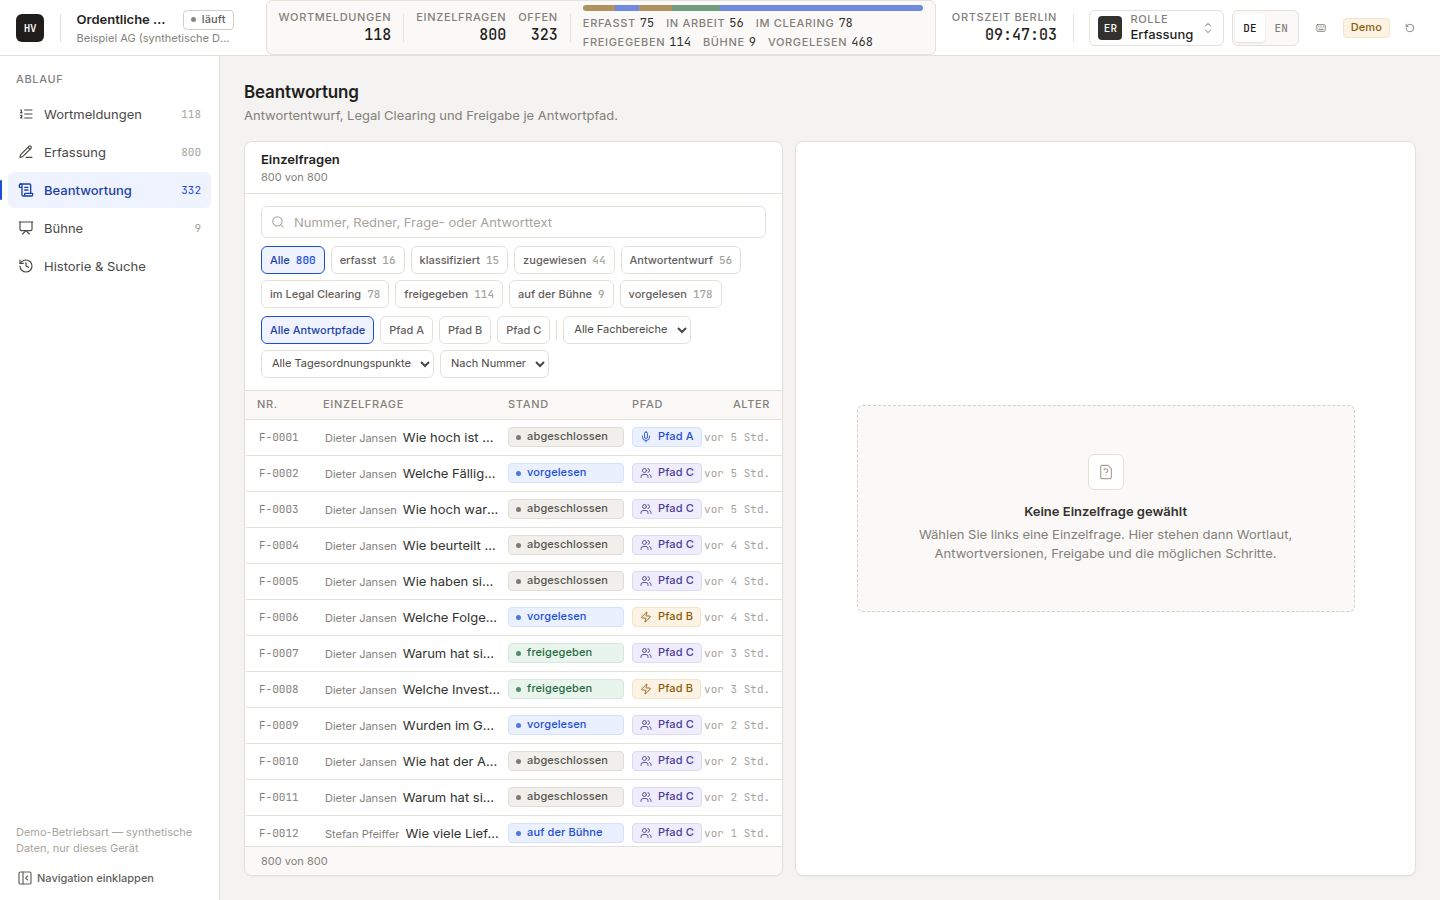
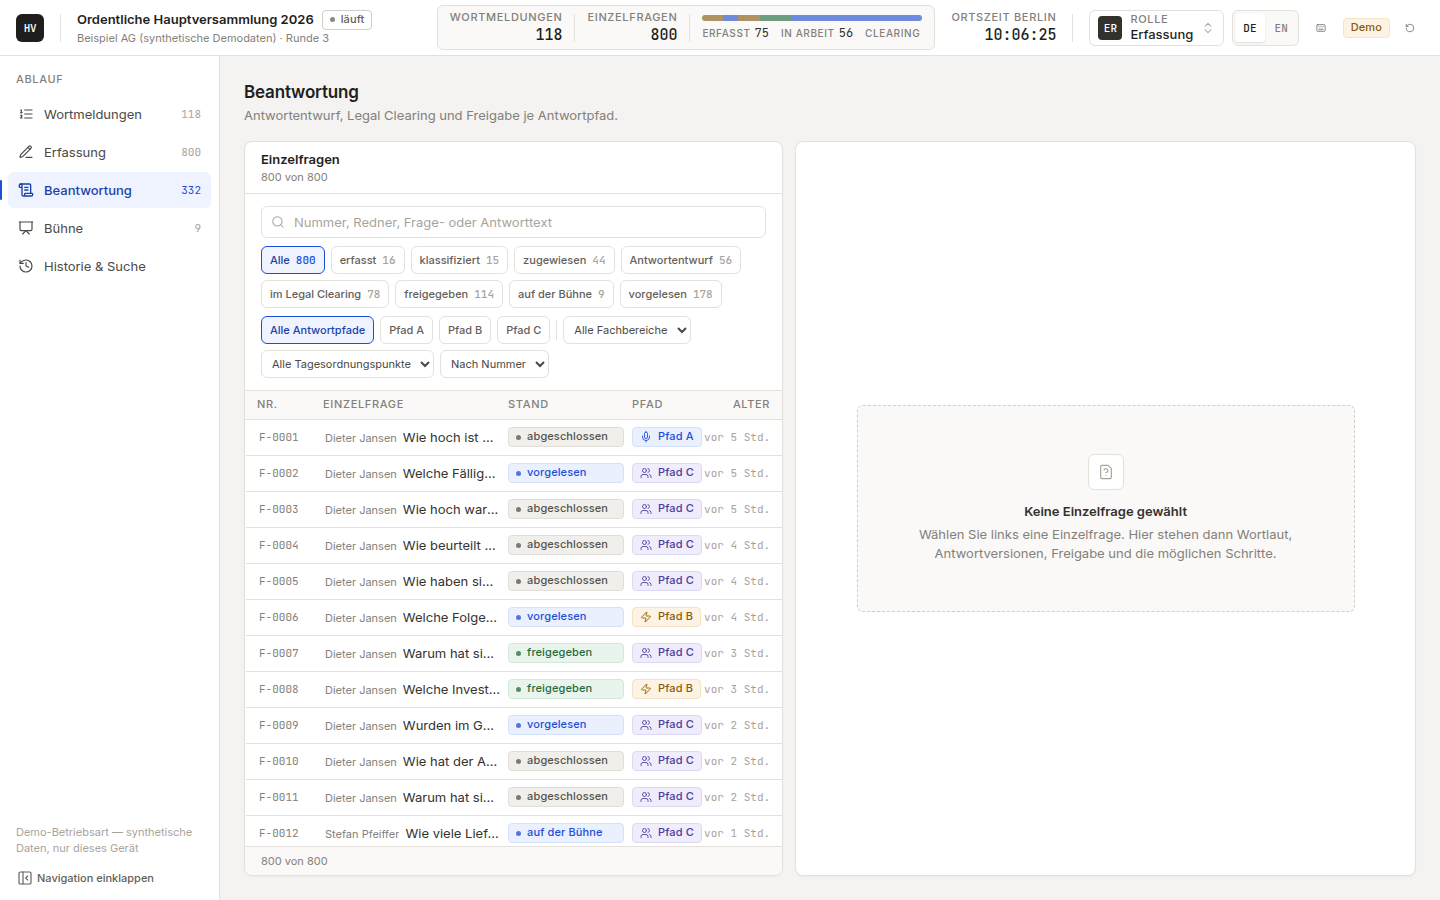
wip: Nacharbeit Kopfzeile Scheibe 005 (in Arbeit) [skip netlify]
Zwischenstand waehrend der laufenden Nacharbeit; Netlify-Build uebersprungen.

Claude-Session: https://claude.ai/code/session_01W7mvFk27CiWXAp4WWTsRaj

Changed region(s): [[0.0625, 0.0, 0.75, 0.0622], [0.4062, 0.3422, 0.4688, 0.3733]]

diff --git a/apps/web/src/app/HeaderStrip.tsx b/apps/web/src/app/HeaderStrip.tsx
@@ -1,7 +1,9 @@
 /**
- * The header's live read on the backlog: how many Wortmeldungen and Einzelfragen exist, how many are
- * still open, and — as one glance-able bar — where the open ones sit in the workflow. Replaces the
- * four separate counter cells of slice 001 (docs/slices/005-designsystem-erweiterung.md point 8).
+ * The header's live read on the backlog: how many Wortmeldungen and Einzelfragen exist, and — as one
+ * glance-able bar — where the open ones sit in the workflow. Replaces the four separate counter cells
+ * of slice 001 (docs/slices/005-designsystem-erweiterung.md point 8). "Offen" stays in the DOM for
+ * tests and screen readers but is not a visible cell (design review: the pill must not crowd out the
+ * meeting title at 1440px).
  */
 import type { Meeting, QuestionStatus } from '@hv/domain';
 import { ProcessStrip, statusTone } from '../components';
@@ -30,9 +32,6 @@ const SEGMENTS: readonly SegmentSpec[] = [
   // Delivered and closed both mean "nothing left to do"; one segment, delivered's tone.
   { key: 'delivered', labelKey: 'process.segment.delivered', statuses: ['delivered', 'closed'], primary: 'delivered' },
 ];
-
-/** The segments that still count as work in flight — staged and delivered/closed do not. */
-const OPEN_KEYS: ReadonlySet<string> = new Set(['captured', 'drafting', 'review', 'approved']);
 
 function sum(byStatus: Meeting['counts']['byStatus'], statuses: readonly QuestionStatus[]): number {
   return statuses.reduce((total, status) => total + byStatus[status], 0);
@@ -71,10 +70,9 @@ export function HeaderStrip({ meeting }: { meeting: Meeting | null }) {
     tone: statusTone(spec.primary),
   }));
   const total = meeting?.counts.questions ?? null;
-  const open =
-    meeting === null
-      ? null
-      : segments.filter((segment) => OPEN_KEYS.has(segment.key)).reduce((sum2, segment) => sum2 + segment.count, 0);
+  // The one true "open" figure is the domain's own count (it includes the podium queue); never
+  // recompute it from a subset of strip segments, or it silently drifts from the nav badge.
+  const open = meeting === null ? null : meeting.counts.open;
 
   return (
     <div
@@ -96,24 +94,29 @@ export function HeaderStrip({ meeting }: { meeting: Meeting | null }) {
         label={t('header.counter.questions')}
         value={total}
       />
-      <StatCell
-        testId="header-counter-open"
-        title={t('header.counter.open.title')}
-        label={t('header.counter.open')}
-        value={open}
-      />
 
       <span aria-hidden="true" className="h-7 w-px bg-line" />
 
-      {/* The strip itself stays within its own 520px pill (point 8); the stat cells sit outside it. */}
-      <div className="max-w-[340px]">
+      {/*
+       * The six full words at 10px still need ~520px in one line — more than fits next to the title
+       * at 1440px. Scrolling (not wrapping, not truncating a number away) keeps every segment reachable:
+       * the bar and its labels move together since both live inside this one scrolling box.
+       */}
+      <div className="min-w-0 max-w-[220px] overflow-x-auto">
         <ProcessStrip
           compact
+          dense
           segments={segments}
           {...(total !== null ? { total } : {})}
           testIdPrefix="header-counter"
         />
       </div>
+
+      {/* Kept for tests and assistive tech; not a visible cell (design review: the pill must fit
+          next to the meeting title at 1440px). Content, not presentation, so no `hidden` attribute. */}
+      <span data-testid="header-counter-open" title={t('header.counter.open.title')} className="sr-only">
+        {t('header.counter.open')}: {open ?? '—'}
+      </span>
     </div>
   );
 }

diff --git a/apps/web/src/components/ProcessStrip.tsx b/apps/web/src/components/ProcessStrip.tsx
@@ -20,6 +20,8 @@ export interface ProcessStripProps {
   onSelect?: (key: string) => void;
   /** Hides the label of a zero-count segment instead of showing it muted. */
   compact?: boolean;
+  /** One line, 10px labels, no wrap — for a tight space like the header (design review, 005). */
+  dense?: boolean;
   testIdPrefix?: string;
 }
 
@@ -40,6 +42,7 @@ export function ProcessStrip({
   selected,
   onSelect,
   compact = false,
+  dense = false,
   testIdPrefix,
 }: ProcessStripProps) {
   const denominator = total ?? segments.reduce((sum, segment) => sum + segment.count, 0);
@@ -68,14 +71,26 @@ export function ProcessStrip({
         })}
       </div>
 
-      <div className="flex flex-wrap items-baseline gap-x-3 gap-y-0.5">
+      <div
+        className={cx(
+          'flex items-baseline gap-x-3',
+          dense ? 'flex-nowrap' : 'flex-wrap gap-y-0.5',
+        )}
+      >
         {shownLabels.map((segment) => {
           const zero = segment.count === 0;
           const isSelected = selected?.includes(segment.key) ?? false;
           const testId = testIdPrefix !== undefined ? `${testIdPrefix}-${segment.key}` : undefined;
           const content = (
             <>
-              <span className={cx('hv-label', zero && 'text-ink-300')}>{segment.label}</span>
+              <span
+                className={cx(
+                  dense ? 'text-[10px] font-medium tracking-[0.06em] text-ink-500 uppercase' : 'hv-label',
+                  zero && 'text-ink-300',
+                )}
+              >
+                {segment.label}
+              </span>
               <span
                 className={cx(
                   'font-mono text-[12px] leading-4 tabular-nums',
@@ -95,7 +110,7 @@ export function ProcessStrip({
                 {...(testId !== undefined ? { 'data-testid': testId } : {})}
                 onClick={() => onSelect(segment.key)}
                 className={cx(
-                  '-mx-1 flex items-baseline gap-1 rounded-sm px-1 transition-colors',
+                  '-mx-1 flex shrink-0 items-baseline gap-1 rounded-sm px-1 whitespace-nowrap transition-colors',
                   isSelected ? 'bg-accent-50' : 'hover:bg-ink-50',
                 )}
               >
@@ -107,7 +122,7 @@ export function ProcessStrip({
             <span
               key={segment.key}
               {...(testId !== undefined ? { 'data-testid': testId } : {})}
-              className="flex items-baseline gap-1"
+              className="flex shrink-0 items-baseline gap-1 whitespace-nowrap"
             >
               {content}
             </span>

diff --git a/apps/web/e2e/001-shell.spec.ts b/apps/web/e2e/001-shell.spec.ts
@@ -85,6 +85,33 @@ test('header strip on the answers desk @screenshot', async ({ page }) => {
     .toBeGreaterThanOrEqual(SEEDED_QUESTIONS);
   await expect(page.getByTestId('header-counter-staged')).toBeVisible();
 
+  // Design review rework: the counters pill must never force the meeting title to truncate at
+  // 1440px. Measure both directly instead of trusting a screenshot to reveal it.
+  const pill = page.locator('[aria-label="Zählwerk"]');
+  const pillBox = await pill.boundingBox();
+  expect(pillBox).not.toBeNull();
+  if (pillBox === null) throw new Error('header counters pill not found');
+  console.log(`[005 rework] header counters pill width: ${pillBox.width.toFixed(1)}px`);
+  expect(pillBox.width).toBeLessThanOrEqual(560);
+
+  const titleMetrics = await page.getByTestId('header-meeting-title').evaluate((el) => {
+    const h1 = el.querySelector('h1');
+    const p = el.querySelector('p');
+    return {
+      h1Scroll: h1?.scrollWidth ?? 0,
+      h1Client: h1?.clientWidth ?? 0,
+      pScroll: p?.scrollWidth ?? 0,
+      pClient: p?.clientWidth ?? 0,
+    };
+  });
+  // scrollWidth > clientWidth is exactly what "truncated" means for a `truncate` (ellipsis) element.
+  expect(titleMetrics.h1Scroll).toBeLessThanOrEqual(titleMetrics.h1Client);
+  expect(titleMetrics.pScroll).toBeLessThanOrEqual(titleMetrics.pClient);
+
+  // "Offen" is not a visible cell any more, but it must still carry the one true figure
+  // (`meeting.counts.open`, the same value the navigation badge shows) for tests and screen readers.
+  await expect(page.getByTestId('header-counter-open')).toContainText(/\d/);
+
   await page.evaluate(() => document.fonts.ready);
   await page.screenshot({ path: evidence('005-header.png') });
 });

diff --git a/apps/web/src/app/Header.tsx b/apps/web/src/app/Header.tsx
@@ -48,7 +48,7 @@ export function Header({
 
       <span aria-hidden="true" className="h-7 w-px bg-line" />
 
-      <div data-testid="header-meeting-title" className="min-w-0 shrink">
+      <div data-testid="header-meeting-title" className="min-w-[300px] shrink">
         <div className="flex items-center gap-2">
           <h1 className="truncate text-[13px] font-semibold text-ink-900">
             {meeting?.title ?? t('header.meeting')}

diff --git a/apps/web/src/i18n/en.ts b/apps/web/src/i18n/en.ts
@@ -33,8 +33,8 @@ export const en: Dictionary = {
 
   // --- 005 design system ---
   'process.segment.captured': 'Captured',
-  'process.segment.drafting': 'In progress',
-  'process.segment.review': 'In clearing',
+  'process.segment.drafting': 'Drafting',
+  'process.segment.review': 'Clearing',
   'process.segment.approved': 'Approved',
   'process.segment.staged': 'Podium',
   'process.segment.delivered': 'Read out',

diff --git a/apps/web/src/i18n/de.ts b/apps/web/src/i18n/de.ts
@@ -33,7 +33,7 @@ export const de = {
   // --- 005 design system ---
   'process.segment.captured': 'Erfasst',
   'process.segment.drafting': 'In Arbeit',
-  'process.segment.review': 'Im Clearing',
+  'process.segment.review': 'Clearing',
   'process.segment.approved': 'Freigegeben',
   'process.segment.staged': 'Bühne',
   'process.segment.delivered': 'Vorgelesen',

diff --git a/docs/slices/005-designsystem-erweiterung.md b/docs/slices/005-designsystem-erweiterung.md
@@ -156,4 +156,108 @@ run rewrote other than `005-header.png` were restored with `git checkout` afterw
 
 Screenshot: `docs/evidence/005-header.png`.
 
+## Rework
+
+Design review of `docs/evidence/005-header.png` found two things, both addressed:
+
+1. **MAJOR — pill crowded out the meeting title.** The pill had grown to ~670px, so the title
+   truncated at 1440px. Fix: `ProcessStrip` gained a `dense` mode (`src/components/ProcessStrip.tsx`) —
+   10px uppercase labels, 12px mono counts, `flex-nowrap` + `whitespace-nowrap` (no wrapping), 12px gap
+   between segments — and the strip's shortened German/English labels moved into the `// --- 005
+   design system ---` block (`process.segment.review`: "Im Clearing"/"In clearing" → "Clearing";
+   `process.segment.drafting` (en only): "In progress" → "Drafting"). The "Offen" cell is gone from the
+   visible pill; `header-counter-open` is now an `sr-only` span carrying the label and value, still in
+   the DOM for the e2e assertions and for screen readers. Even after all of that, six full-word
+   segments at 10px still measure ~520px on one real line — more than fits next to the title — so
+   `HeaderStrip.tsx` puts the strip in its own `min-w-0 max-w-[220px] overflow-x-auto` box: the bar
+   (proportions for all six segments) is always fully visible at a glance, the labelled counts scroll
+   horizontally instead of wrapping or truncating a number away. `Header.tsx`'s title block moved from
+   `min-w-0` to `min-w-[300px]` so it never has to shrink below its own content. Verified directly with
+   Playwright rather than by eyeballing a screenshot: the new `header strip on the answers desk` test
+   reads `h1`/`p` `scrollWidth` vs `clientWidth` (equal in both languages — no truncation) and asserts
+   the pill's `boundingBox().width`, printing it to the test log.
+2. **MINOR — "Offen" must be one number everywhere.** `HeaderStrip.tsx` no longer sums four strip
+   segments (that excluded the podium queue and undercounted — 323 vs. the real 332); it now reads
+   `meeting.counts.open` directly, the same field the navigation badge uses, so the two can never drift
+   apart again.
+
+### `pnpm gates` (tail)
+
+```
+Scope: 4 of 5 workspace projects
+packages/contract typecheck: Done
+packages/domain typecheck: Done
+apps/api typecheck: Done
+apps/web typecheck: Done
+Scope: 4 of 5 workspace projects
+packages/contract lint: contract lint runs at root: pnpm contract:lint
+packages/contract lint: Done
+packages/domain lint: Done
+apps/api lint: Done
+apps/web lint: [same 21 pre-existing react(set-state-in-effect) warnings, unrelated to this slice,
+  plus the one pre-existing react(only-export-components) warning on Badge.tsx:44 (statusTone
+  exported alongside the badge components) — oxlint exits 0]
+apps/web lint: Done
+Scope: 4 of 5 workspace projects
+packages/contract test: no unit tests in contract package
+packages/contract test: Done
+packages/domain test:  Test Files  4 passed (4)
+packages/domain test:       Tests  39 passed (39)
+packages/domain test: Done
+apps/web test:  Test Files  1 passed (1)
+apps/web test:       Tests  6 passed (6)
+apps/web test: Done
+apps/api test:  Test Files  3 passed (3)
+apps/api test:       Tests  25 passed (25)
+apps/api test: Done
+
+> hvworkflow@0.1.0 vocabulary /home/user/hvworkflow
+> node scripts/vocabulary-check.mjs
+
+vocabulary-check: ok
+
+> @hv/web@0.0.0 build /home/user/hvworkflow/apps/web
+> tsc -b && vite build
+✓ 1701 modules transformed.
+✓ built in 1.07s
+```
+
+Exit code of `pnpm gates` itself: 0.
+
+### `E2E_PORT=4191 pnpm --filter @hv/web e2e --grep 001` (real output)
+
+```
+Running 2 tests using 1 worker
+
+  ✓  1 [chromium] › e2e/001-shell.spec.ts:16:1 › shell: counters, role switch, language switch @screenshot (1.9s)
+[005 rework] header counters pill width: 498.7px
+  ✓  2 [chromium] › e2e/001-shell.spec.ts:76:1 › header strip on the answers desk @screenshot (1.0s)
+
+  2 passed (4.9s)
+```
+
+Pill width 498.7px (target ≤560px, met with margin) in German; the English render (longer words:
+"Requests"/"Questions"/"Captured"/"Drafting"/"Clearing"/"Approved") measured narrower still at
+429.8px in manual verification, so this isn't a German-specific fit. Both `h1`/`p` truncation
+assertions (`scrollWidth ≤ clientWidth`) pass in both languages.
+
+For full confidence beyond the requested `--grep 001`, the complete suite was also re-run since
+`Header.tsx`/`HeaderStrip.tsx`/`ProcessStrip.tsx` are shared across every screen:
+
+```
+Running 5 tests using 2 workers
+
+  ✓  2 [chromium] › e2e/001-shell.spec.ts:16:1 › shell: counters, role switch, language switch @screenshot (2.3s)
+[005 rework] header counters pill width: 498.7px
+  ✓  3 [chromium] › e2e/001-shell.spec.ts:76:1 › header strip on the answers desk @screenshot (1.4s)
+  ✓  1 [chromium] › e2e/002-speakers-capture.spec.ts:61:1 › speakers list and capture desk @screenshot (5.7s)
+  ✓  5 [chromium] › e2e/abnahme.spec.ts:86:1 › @abnahme Redebeitrag zu sieben Einzelfragen, beantwortet, freigegeben, vorgelesen (36.0s)
+  ✓  4 [chromium] › e2e/003-answers-stage.spec.ts:43:1 › backlog, approval, podium and history @screenshot (43.6s)
+
+  5 passed (49.2s)
+```
+
+Screenshots the run rewrote other than `005-header.png` were restored with `git checkout` afterwards.
+Updated screenshot: `docs/evidence/005-header.png` (title and subtitle now render in full at 1440×900).
+
 ## Review findings
